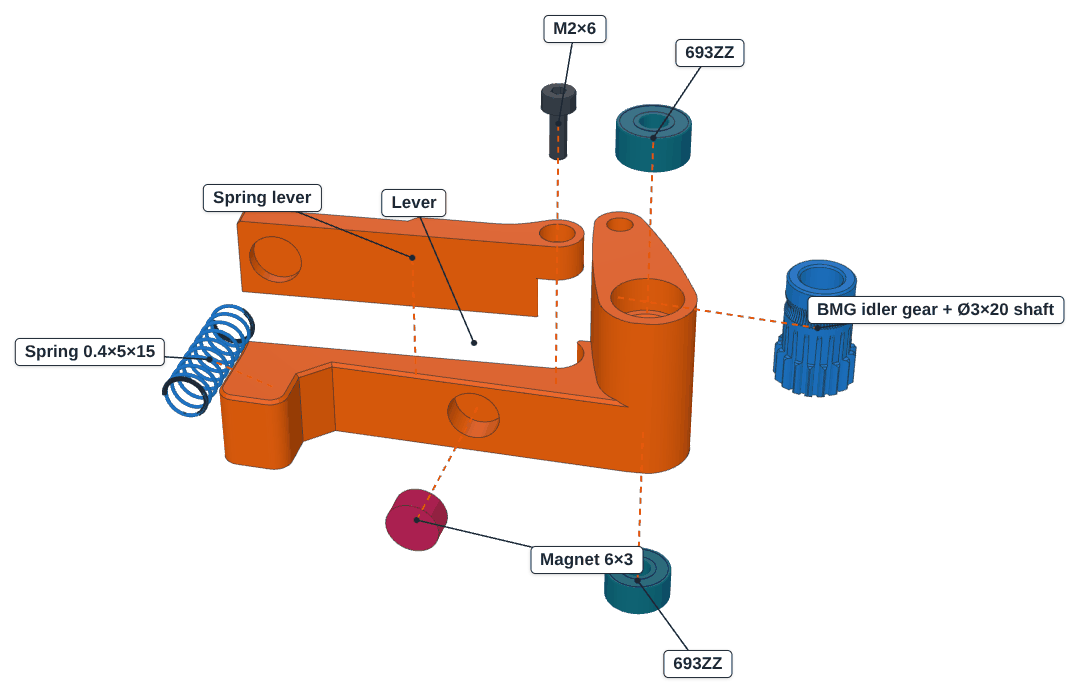
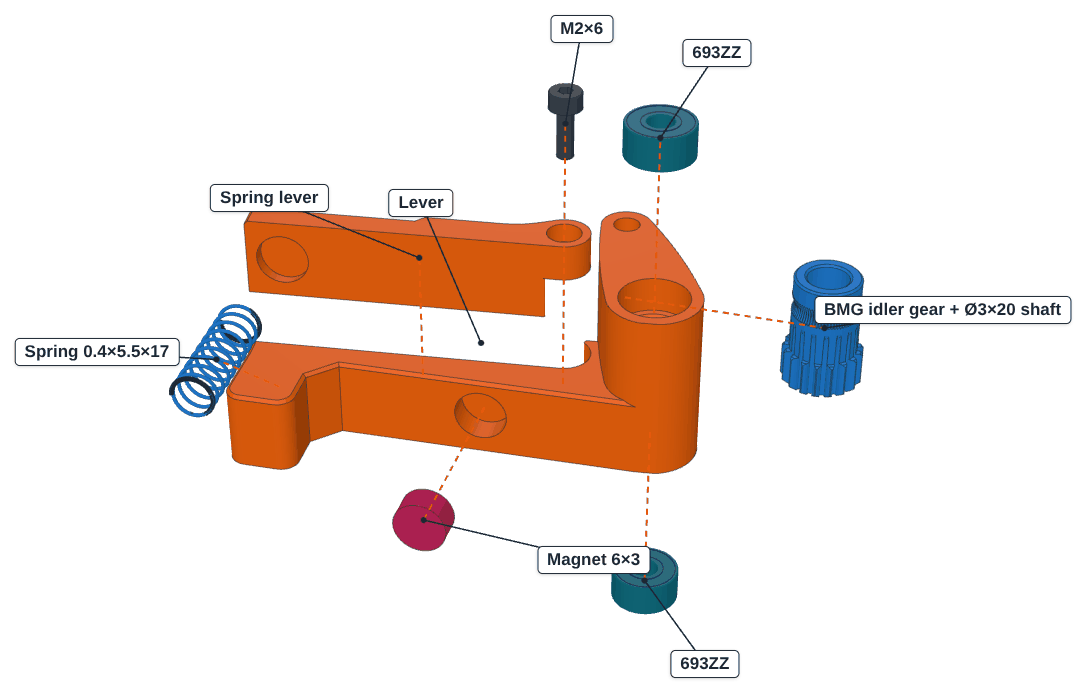
Uninstall: remove the module link even after the repo moved; docs cleanup
- uninstall removes any autoloader_sync.py symlink in klippy/extras (also a
  dangling one after moving/deleting the repo) and its compiled .pyc files
- README: what uninstall does, delete the folder afterwards
- assembly guide: fix link to the renamed 'Hardware Pins' section, printed
  part names as in STL/, spring 0.4x5.5x17 in the step 5 picture
- THIRD_PARTY_NOTICES: CAD/STL are now included
- remove four unused old screenshots, refresh the settings screenshots

Claude-Session: https://claude.ai/code/session_01VDtPnBwXqHuwKHs624Dn1u

diff --git a/scripts/installer.py b/scripts/installer.py
@@ -516,9 +516,18 @@ def module_install(env, ops):
 
 def module_remove(env, ops):
     link = module_link(env)
-    if link and link.is_symlink() and os.path.realpath(link) == str(MODULE_SRC):
+    if link and link.is_symlink():          # ours, even if the repo was moved or deleted meanwhile
         ops.remove(link)
         ok("Klipper-Modul autoloader_sync entfernt")
+    elif link and link.exists():
+        warn(f"{link} ist keine vom Installer angelegte Verknüpfung – nicht gelöscht")
+    if link and not ops.dry:                # compiled leftovers (Python 3: __pycache__, Python 2: next to the module)
+        for pyc in list(link.parent.glob("__pycache__/autoloader_sync.*.pyc")) + [link.parent / "autoloader_sync.pyc"]:
+            try:
+                if pyc.is_file():
+                    pyc.unlink()
+            except OSError:
+                pass
     excl = env["klipper_dir"] / ".git" / "info" / "exclude" if env.get("klipper_dir") else None
     if excl and excl.exists() and not ops.dry:
         lines = excl.read_text(errors="replace").split("\n")

diff --git a/THIRD_PARTY_NOTICES.md b/THIRD_PARTY_NOTICES.md
@@ -24,7 +24,7 @@ voron0-autoloader is licensed under the GNU General Public License v3.0 or later
 
 | Project | What was taken | License |
 |---|---|---|
-| [fila_feeder](https://github.com/DarkK9Design/fila_feeder) by DarkK9Design | the idea for the loader hardware: NEMA17 with BMG gears, an MG90S servo pressing the idler arm, a micro switch at the entrance. The STEP/STL files of this project's own loader design will be added separately. | GPL-3.0 |
+| [fila_feeder](https://github.com/DarkK9Design/fila_feeder) by DarkK9Design | the idea for the loader hardware: NEMA17 with BMG gears, an MG90S servo pressing the idler arm, a micro switch at the entrance. The loader design in `CAD/` and `STL/` is this project's own. | GPL-3.0 |
 | [Happy Hare](https://github.com/moggieuk/Happy-Hare) by moggieuk | the tip-forming sequence (break-off, cooling moves with rising speed) and its default values; the macros here are written from scratch | GPL-3.0 |
 
 ## Used at runtime, not included

diff --git a/docs/assembly.md b/docs/assembly.md
@@ -6,8 +6,8 @@ Orange = printed, blue = hardware, dark = screw, teal = bearing, grey = already 
 
 ## Parts
 
-**Printed:** Main Plate, Bowden In Bearing (housing), Lever Spring V3 (lever), Lever Spring Lever V3 (spring lever),
-Bearing Horn Adapter
+**Printed** ([STL](../STL)): Main Plate, Bowden In Bearing (housing), Lever Spring (lever), Lever Spring Flap
+(spring lever), Bearing Horn Adapter
 
 | Qty | Hardware | Qty | Screws |
 |---|---|---|---|
@@ -74,4 +74,4 @@ The two magnets must **repel** each other (same pole facing): they push the leve
 
 <img src="images/assembly/10-horn-on-servo.png" width="440" alt="Step 10">
 
-**11.** Mount (4× M3), PTFE in, wiring: [pins](../README.md#hardware), then [first setup](../README.md#first-setup).
+**11.** Mount (4× M3), PTFE in, wiring: [pins](../README.md#hardware-pins), then [first setup](../README.md#first-setup).

diff --git a/README.md b/README.md
@@ -72,7 +72,8 @@ The installer backs up your config, installs the macros and the small Klipper mo
 update manager entry and the KlipperScreen menu. All options: `./install.sh --help`.
 
 **Update:** Mainsail → *Update Manager* → `voron0-autoloader` (run `./install.sh` again if the page asks for it).
-**Uninstall:** `./uninstall.sh` – the settings file is kept.
+**Uninstall:** `./uninstall.sh` – removes macros, Klipper module, hooks, page and update manager entry and restores
+what the installer changed (the settings file is kept). Then `rm -rf ~/Voron0-AutoLoader`.
 
 ## First setup
 
